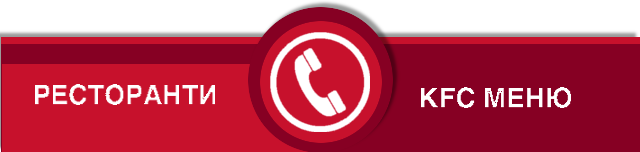
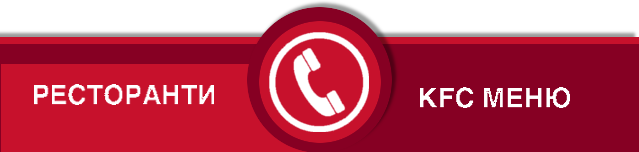
tab bar images updated

diff --git a/KFC/KFC/KFCTabBarController.m b/KFC/KFC/KFCTabBarController.m
@@ -40,7 +40,7 @@
     for (int i = 0; i < self.tabBar.items.count; ++i) {
         [[self.tabBar.items objectAtIndex:i] setTag:i];
     }
-    
+    [self.tabBar setSelectionIndicatorImage:[UIImage imageNamed:@"transparent.png"]];
     [self.tabBar setBackgroundImage:[UIImage imageNamed:[NSString stringWithFormat:@"kfc-tabbar-selected-%d.png", [self.tabBar.selectedItem tag]]]];
 }
 
